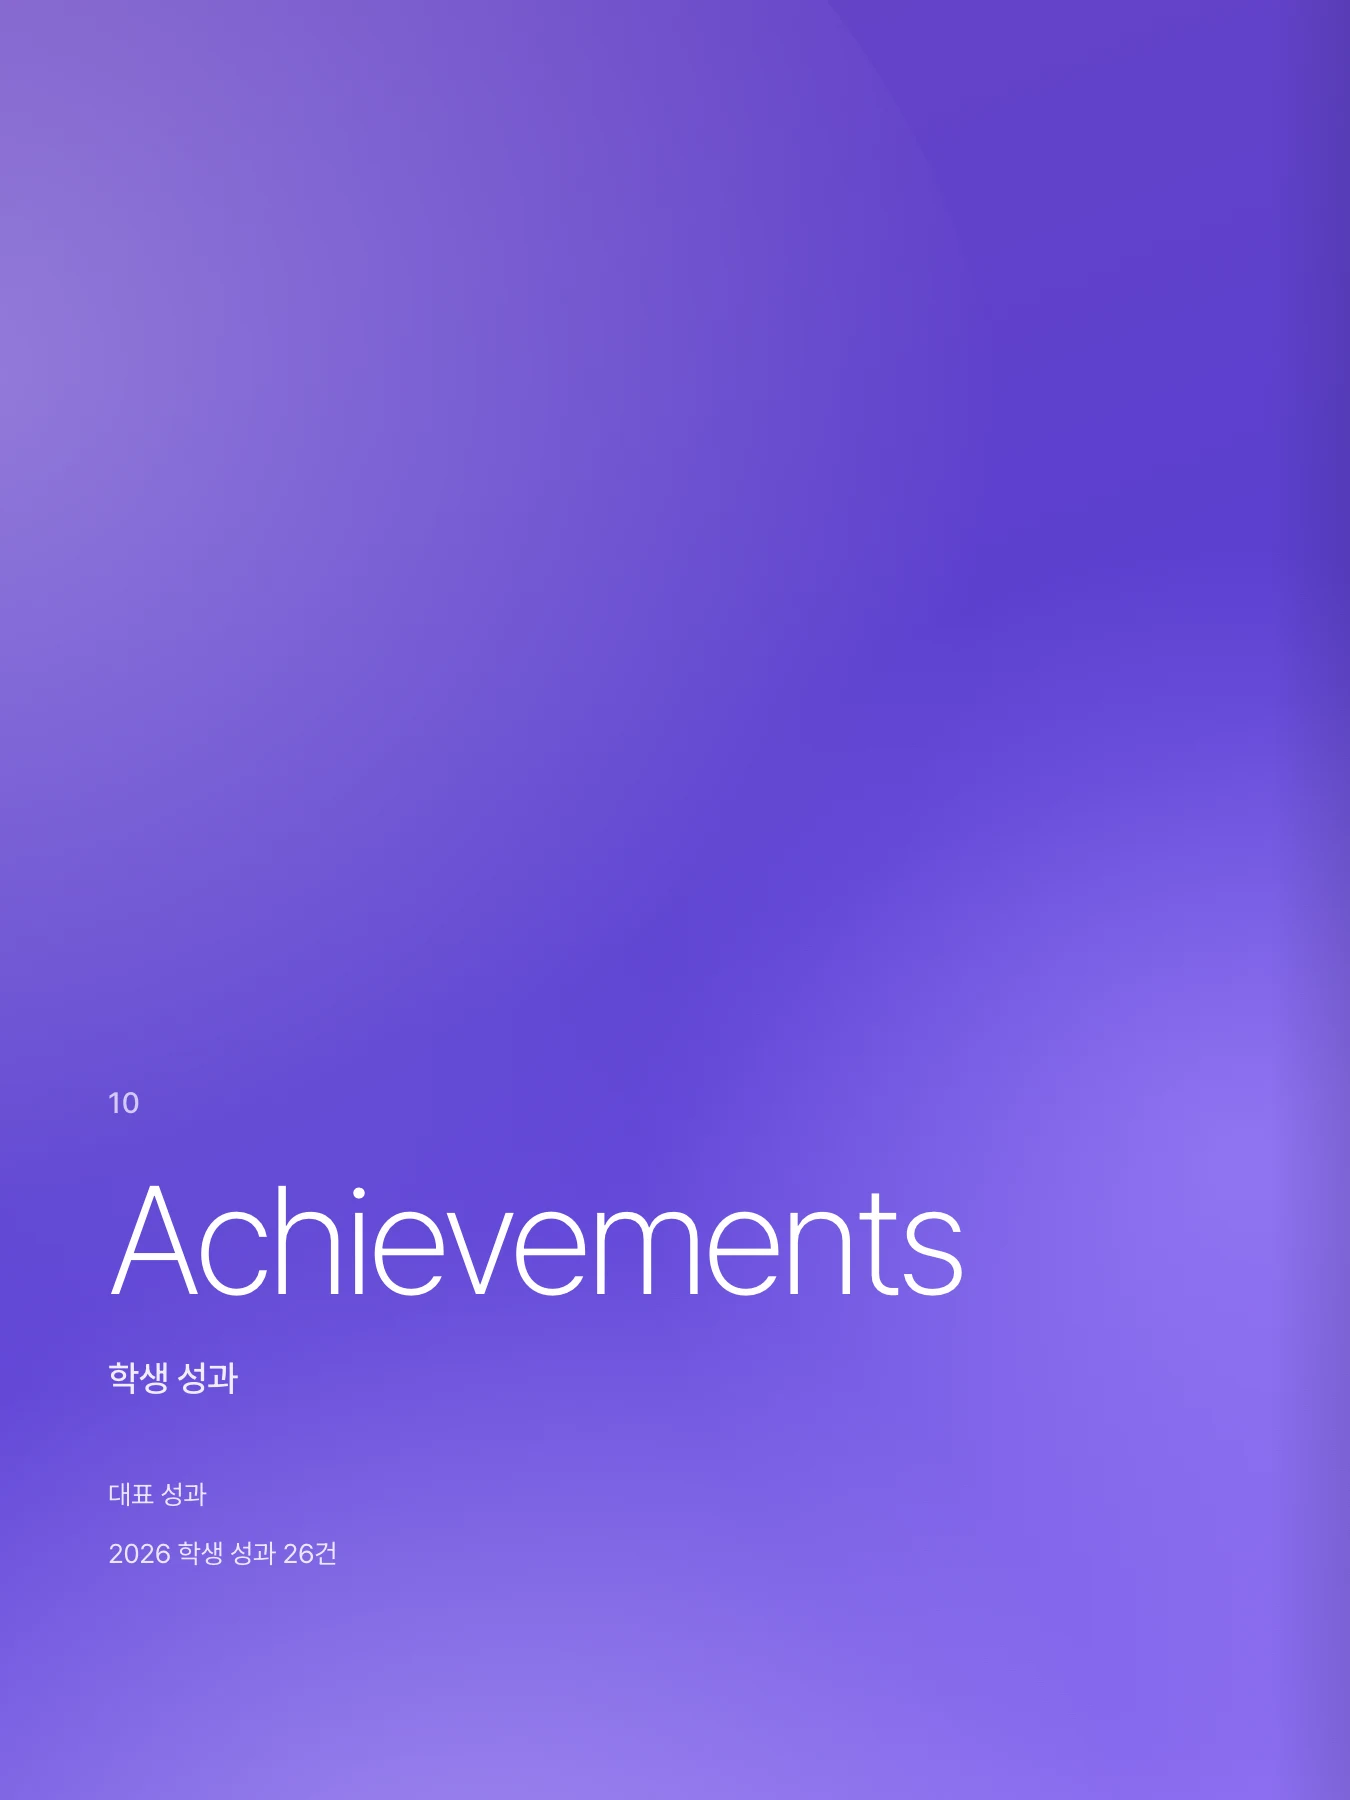
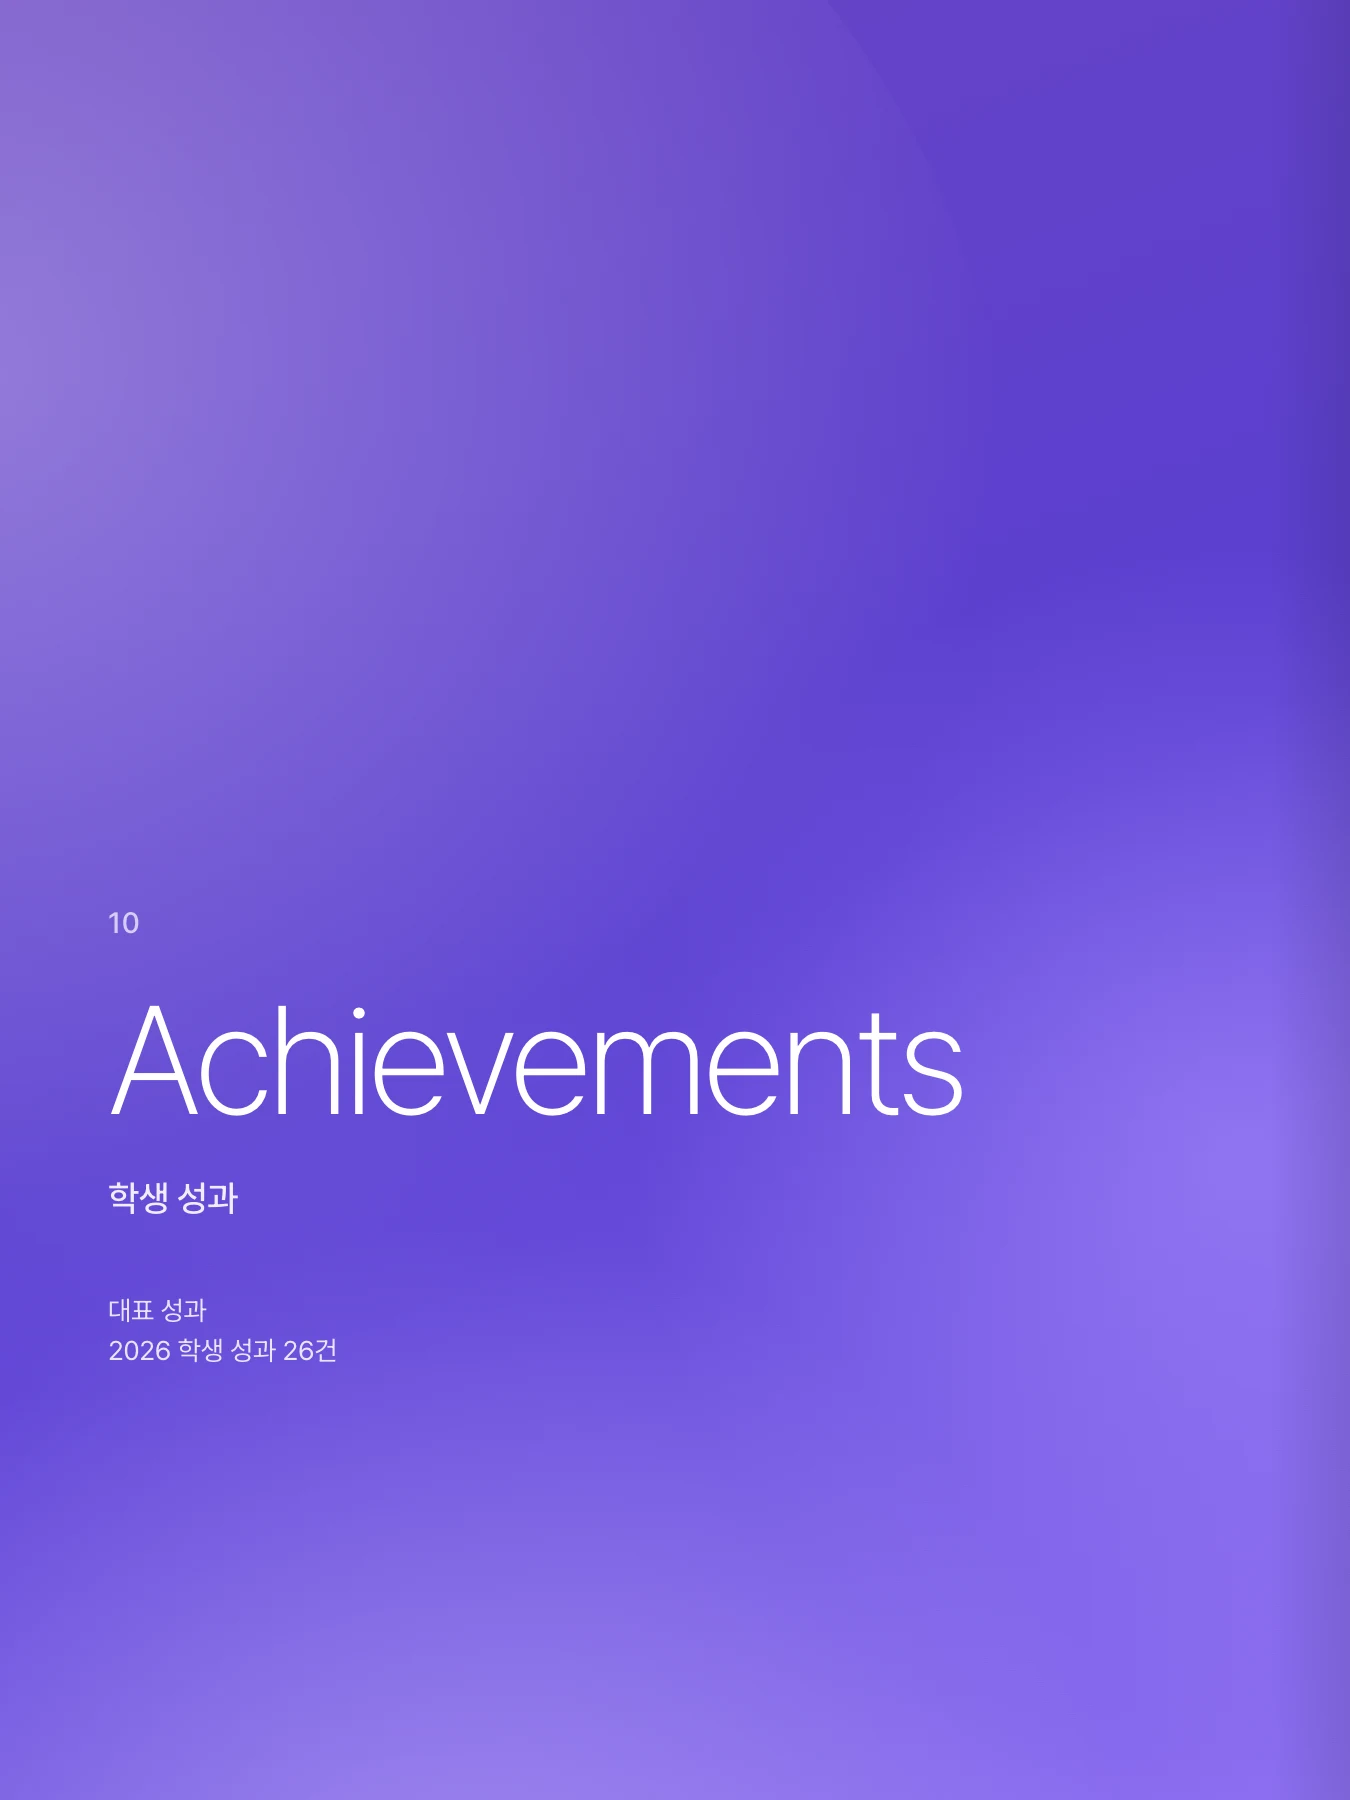
장 표지: 항목이 많은 장도 쪽 안에 들어오도록 제목을 올리고 목록 간격을 줄임, 11쪽 다시 굽기

Changed region(s): [[0.0622, 0.6533, 0.7156, 0.7778], [0.0622, 0.56, 0.7156, 0.6222], [0.0933, 0.8089, 0.2489, 0.8711]]

diff --git a/client/src/pages/annual/annualPages.css b/client/src/pages/annual/annualPages.css
@@ -1822,7 +1822,7 @@
 .ap-opener__body {
   left: 48px;
   right: 48px;
-  top: 480px;
+  top: 400px;
   bottom: auto;
   align-items: flex-start;
   text-align: left;
@@ -1847,7 +1847,8 @@
   align-items: flex-start;
   margin-top: 32px;
   font-size: 12px;
+  line-height: 16px;
   font-weight: 400;
-  gap: 6px;
+  gap: 2px;
   color: rgb(255 255 255 / 0.85);
 }
